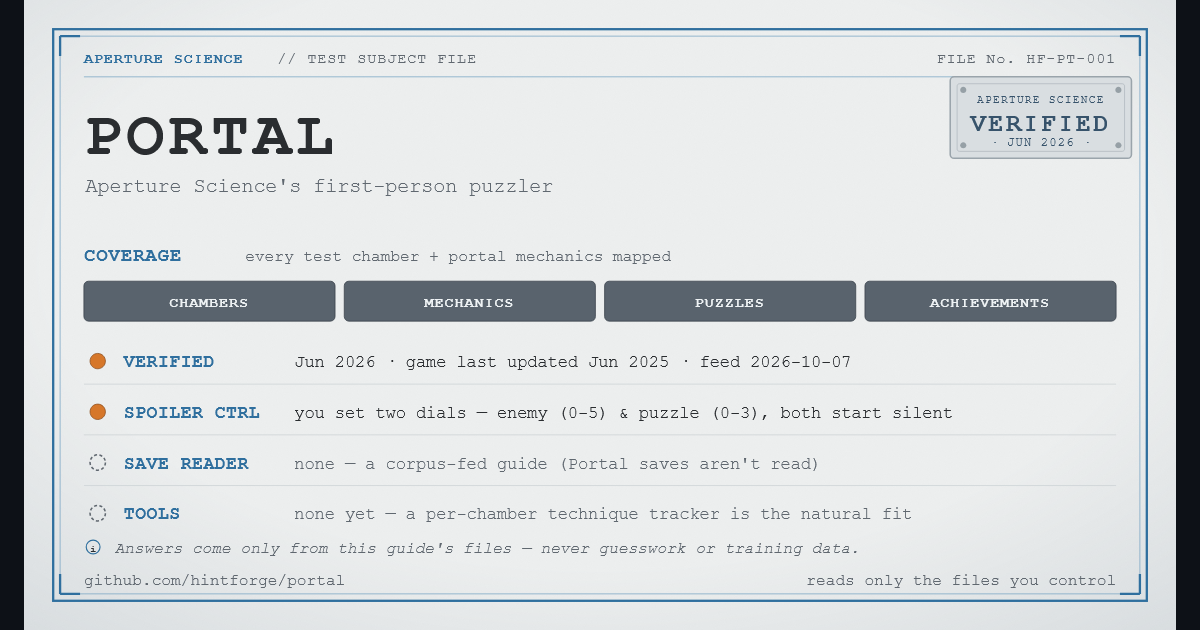
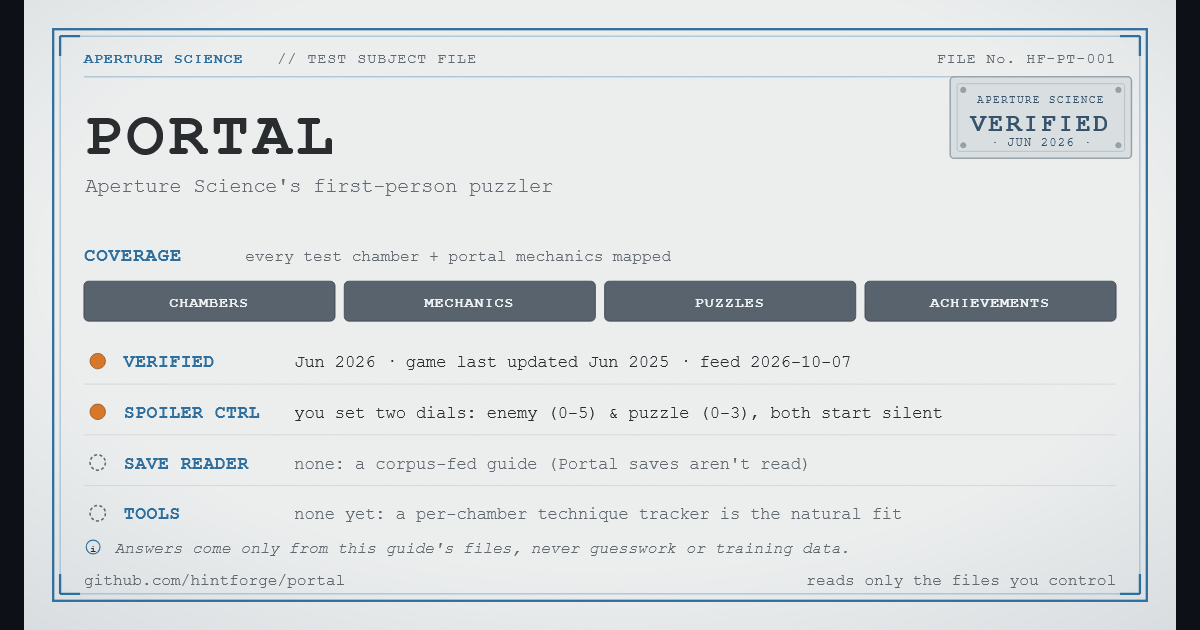
Guides: status cards without dashes

diff --git a/guides.html b/guides.html
@@ -2,7 +2,7 @@
 <html lang="en" data-theme="dark">
 <head>
 <meta charset="utf-8"><meta name="viewport" content="width=device-width, initial-scale=1">
-<title>Spoiler-free game guides for Balatro, Red Dead Redemption 2, Halo Infinite and more · Hintforge</title><!-- meta:start --><meta name="description" content="Spoiler-free hint guides for 15 games, including New Pokémon Snap, Phantom Doctrine, Red Dead Redemption 2. Each answers only at the spoiler level you set."><meta property="og:description" content="Spoiler-free hint guides for 15 games, including New Pokémon Snap, Phantom Doctrine, Red Dead Redemption 2. Each answers only at the spoiler level you set."><!-- meta:end -->
+<title>Spoiler-free game guides for Balatro, Red Dead Redemption 2, Halo Infinite and more · Hintforge</title><!-- meta:start --><meta name="description" content="Spoiler-free hint guides for 15 games, including Warhammer 40,000: Rogue Trader, The Stanley Parable, Portal. Each answers only at the spoiler level you set."><meta property="og:description" content="Spoiler-free hint guides for 15 games, including Warhammer 40,000: Rogue Trader, The Stanley Parable, Portal. Each answers only at the spoiler level you set."><!-- meta:end -->
 <meta name="color-scheme" content="dark light"><meta name="theme-color" content="#0d1117">
 <meta property="og:type" content="website"><meta property="og:title" content="Spoiler-free game guides · Hintforge"><meta property="og:url" content="https://mackforge.dev/guides.html"><meta property="og:image" content="https://mackforge.dev/assets/guides-preview.png"><meta property="og:image:width" content="1200"><meta property="og:image:height" content="630"><meta property="og:image:alt" content="The mackforge game guides page: a grid of Hintforge guide cards, each with its status card image">
 <meta name="twitter:card" content="summary_large_image"><meta name="twitter:image" content="https://mackforge.dev/assets/guides-preview.png">
